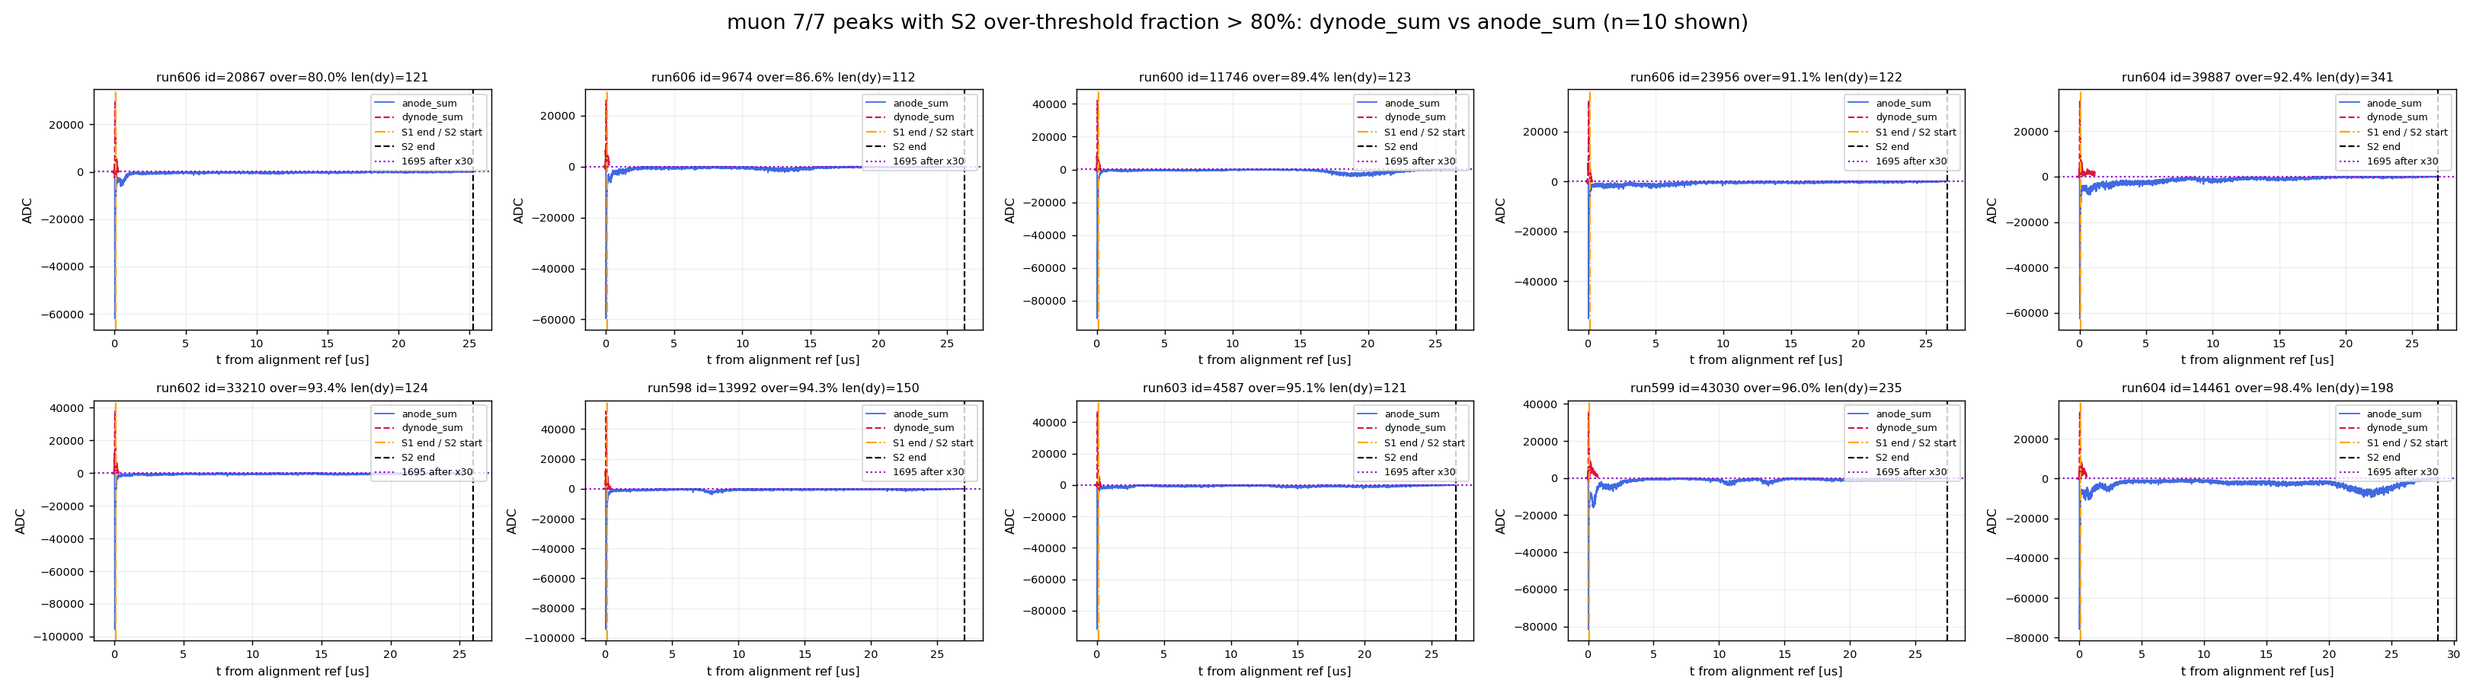
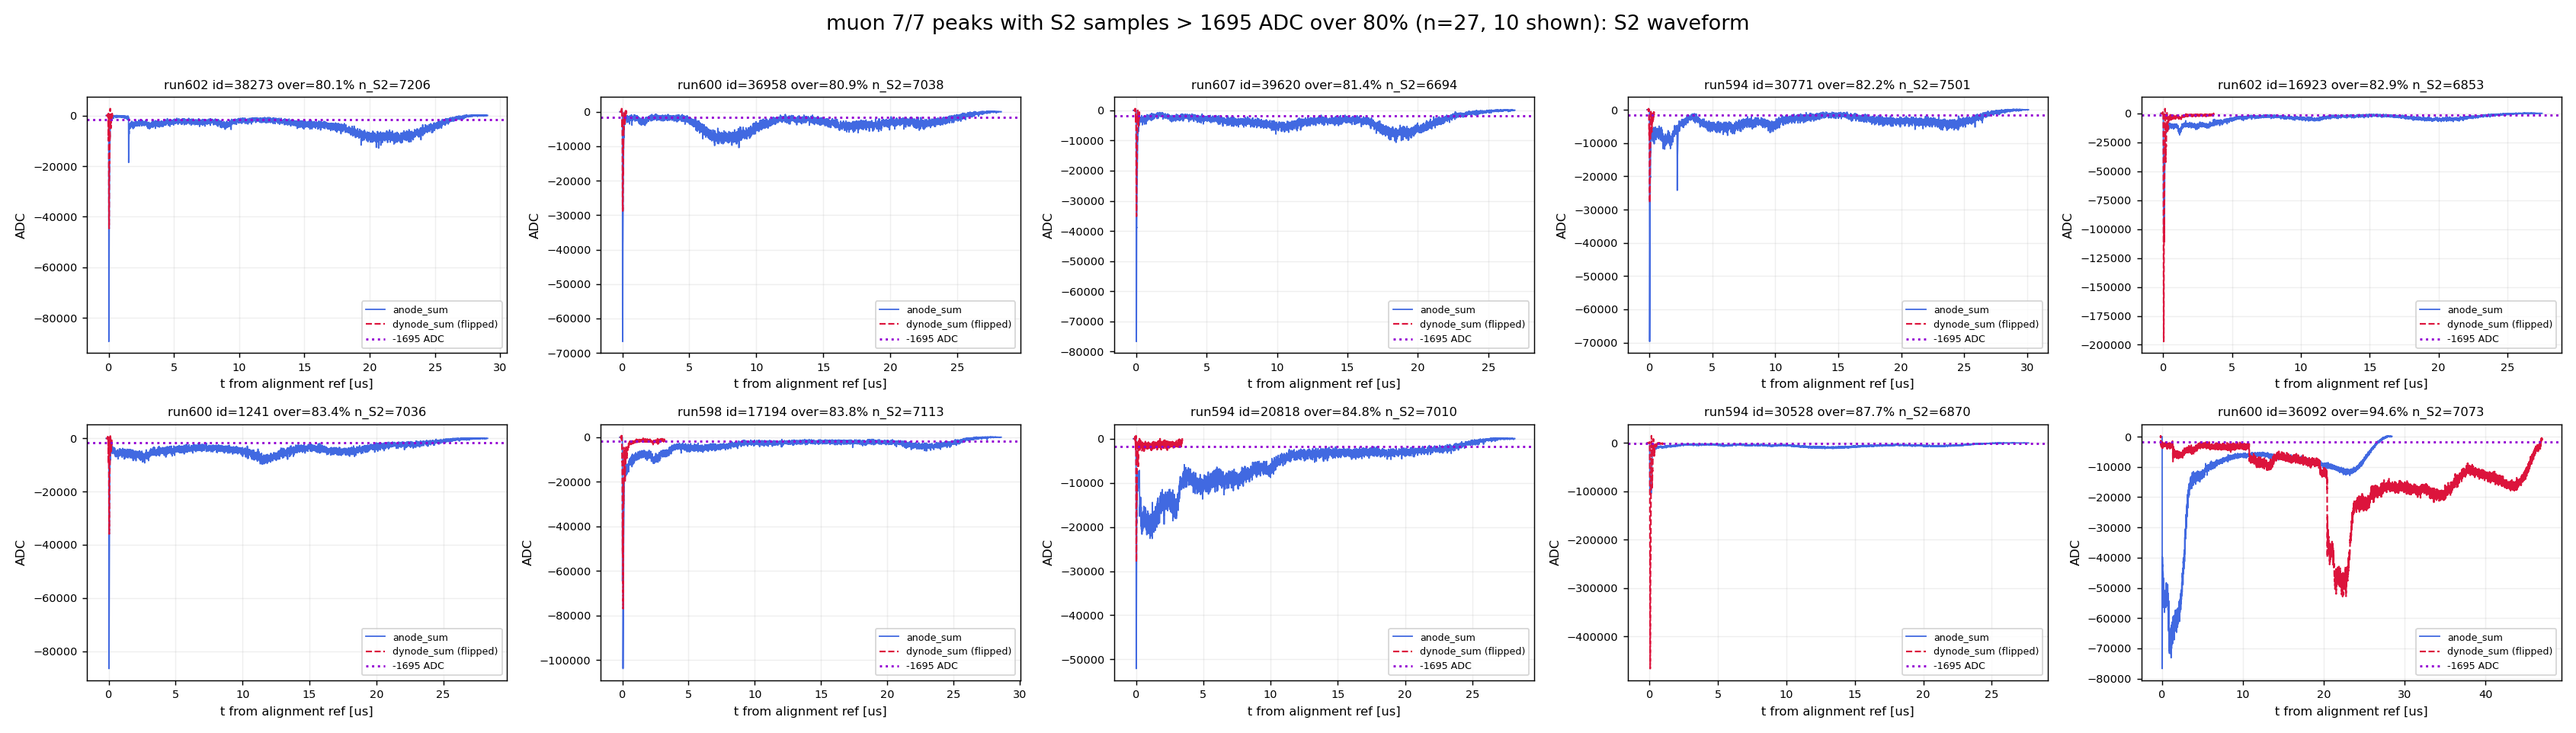
Fix S2>1695 ADC >80% selection: flip dynode, use raw ADC threshold (27 events)

diff --git a/scripts/plot_muon_s2over80_examples.py b/scripts/plot_muon_s2over80_examples.py
@@ -1,8 +1,9 @@
 #!/usr/bin/env python
-"""10 example muon 7/7 peaks whose S2 over-threshold fraction exceeds 80%.
+"""10 examples of muon 7/7 peaks whose S2 samples above the 1695 ADC threshold
+make up more than 80% of the S2 window.
 
-Plots the dynode_sum waveform (flipped, dashed) together with the anode_sum for
-reference, plus the S2 window edges.  Waveforms come from the persisted npz."""
+Shows the S2 waveform (anode_sum) with the dynode_sum flipped for comparison and
+marks the 1695 ADC threshold."""
 import sys
 sys.path.insert(0, "/home/yjj/MuonDAS/src")
 import numpy as np
@@ -13,29 +14,46 @@ import matplotlib.pyplot as plt
 from muon_analysis.sum_store import load_sum_npz
 
 N_EX = 10
+THRESH = 1695.0
 TMP = "/mnt/data/tmp/muon_analysis/co60_590/peak_level_v2"
 DOCS = "/home/yjj/MuonDAS/docs/figures"
 NAME = "co60_590_v2_muon_s2over80_dynode_examples.png"
 
-over = pd.read_csv(f"{TMP}/muon_7ch_s2_over1695.csv")
+ratio = pd.read_csv(f"{TMP}/muon_an_dy_channel_ratio.csv")
 df = pd.read_csv(f"{TMP}/co60_590_peak_level_v2.csv")
-m = df.merge(over[over.frac_over_an > 0.80][["run_id", "peaks_id", "frac_over_an"]],
-             on=["run_id", "peaks_id"]).sort_values("frac_over_an").reset_index(drop=True)
-print(f"frac_over_an > 0.80 的事例 = {len(m)}")
+m = df.merge(ratio[(ratio.n_an_pulse == 7) & (ratio.n_dy_pulse == 7)][["run_id", "peaks_id"]],
+             on=["run_id", "peaks_id"])
 
-idx = [int(round(i * (len(m) - 1) / (N_EX - 1))) for i in range(N_EX)]
-picks = m.iloc[idx]
-print(picks[["run_id", "peaks_id", "frac_over_an"]].to_string(index=False))
-
-ncol = 5
-fig, axes = plt.subplots(2, ncol, figsize=(5.0 * ncol, 7.0))
-axes = np.atleast_1d(axes).ravel()
 cache = {}
-for ax, (_, row) in zip(axes, picks.iterrows()):
+recs = []
+for _, row in m.iterrows():
     rid = int(row.run_id)
     if rid not in cache:
         cache[rid] = load_sum_npz(f"{TMP}/sum_waveforms/run_{rid:05d}.npz")
     st = cache[rid]
+    pid = int(row.peaks_id)
+    ref = int(st["sum_ref"])
+    a = -np.asarray(st["anode_sums"].get(pid, np.zeros(0)), dtype=float)
+    lo = max(int(row.muon_s1_end_sample) - ref, 0)
+    hi = max(int(row.muon_s2_end_sample) - ref, 0)
+    seg = a[lo:hi]
+    if seg.size == 0:
+        continue
+    recs.append({"run_id": rid, "peaks_id": pid, "n_s2": seg.size,
+                 "lo": lo, "hi": hi, "frac": float((seg > THRESH).mean())})
+d = pd.DataFrame(recs)
+sub = d[d.frac > 0.80].sort_values("frac").reset_index(drop=True)
+print(f"7/7 muon = {len(d)}   S2 samples > {THRESH:g} ADC over 80% = {len(sub)}")
+
+idx = [int(round(i * (len(sub) - 1) / (N_EX - 1))) for i in range(N_EX)]
+picks = sub.iloc[idx]
+print(picks[["run_id", "peaks_id", "n_s2", "frac"]].to_string(index=False))
+
+ncol = 5
+fig, axes = plt.subplots(2, ncol, figsize=(5.2 * ncol, 7.4))
+axes = np.atleast_1d(axes).ravel()
+for ax, (_, row) in zip(axes, picks.iterrows()):
+    st = cache[int(row.run_id)]
     pid = int(row.peaks_id)
     ref = int(st["sum_ref"])
     a = np.asarray(st["anode_sums"].get(pid, np.zeros(0)), dtype=float)
@@ -43,24 +61,20 @@ for ax, (_, row) in zip(axes, picks.iterrows()):
     t = (np.arange(len(a)) - ref) * 4 / 1000.0
     ax.plot(t, a, "royalblue", lw=1.0, label="anode_sum")
     if dy.size:
-        ax.plot((np.arange(len(dy)) - ref) * 4 / 1000.0, dy, "crimson", ls="--",
-                lw=1.2, label="dynode_sum")
-    lo = (int(row.muon_s1_end_sample) - ref) * 4 / 1000.0
-    hi = (int(row.muon_s2_end_sample) - ref) * 4 / 1000.0
-    ax.axvline(lo, color="orange", ls="-.", lw=1.2, label="S1 end / S2 start")
-    ax.axvline(hi, color="black", ls="--", lw=1.2, label="S2 end")
-    ax.axhline(1695 / 30, color="darkviolet", ls=":", lw=1.2, label="1695 after x30")
-    ax.set_title(f"run{rid} id={pid} over={row.frac_over_an * 100:.1f}% "
-                 f"len(dy)={dy.size}", fontsize=9)
+        ax.plot((np.arange(len(dy)) - ref) * 4 / 1000.0, -dy, "crimson", ls="--",
+                lw=1.2, label="dynode_sum (flipped)")
+    ax.axhline(-THRESH, color="darkviolet", ls=":", lw=1.6, label=f"-{THRESH:g} ADC")
+    ax.set_title(f"run{int(row.run_id)} id={pid} over={row.frac * 100:.1f}% "
+                 f"n_S2={int(row.n_s2)}", fontsize=9)
     ax.tick_params(labelsize=8)
     ax.set_xlabel("t from alignment ref [us]", fontsize=9)
     ax.set_ylabel("ADC", fontsize=9)
     ax.grid(True, alpha=0.2)
-    ax.legend(fontsize=7, loc="upper right")
+    ax.legend(fontsize=7, loc="lower right")
 
-fig.suptitle("muon 7/7 peaks with S2 over-threshold fraction > 80%: "
-             "dynode_sum vs anode_sum (n=10 shown)", fontsize=15)
-fig.tight_layout(rect=(0, 0, 1, 0.97))
+fig.suptitle(f"muon 7/7 peaks with S2 samples > {THRESH:g} ADC over 80% "
+             f"(n={len(sub)}, 10 shown): S2 waveform", fontsize=15)
+fig.tight_layout(rect=(0, 0, 1, 0.96))
 for out in (f"{DOCS}/{NAME}", f"{TMP}/{NAME}"):
     fig.savefig(out, dpi=130)
 plt.close(fig)
